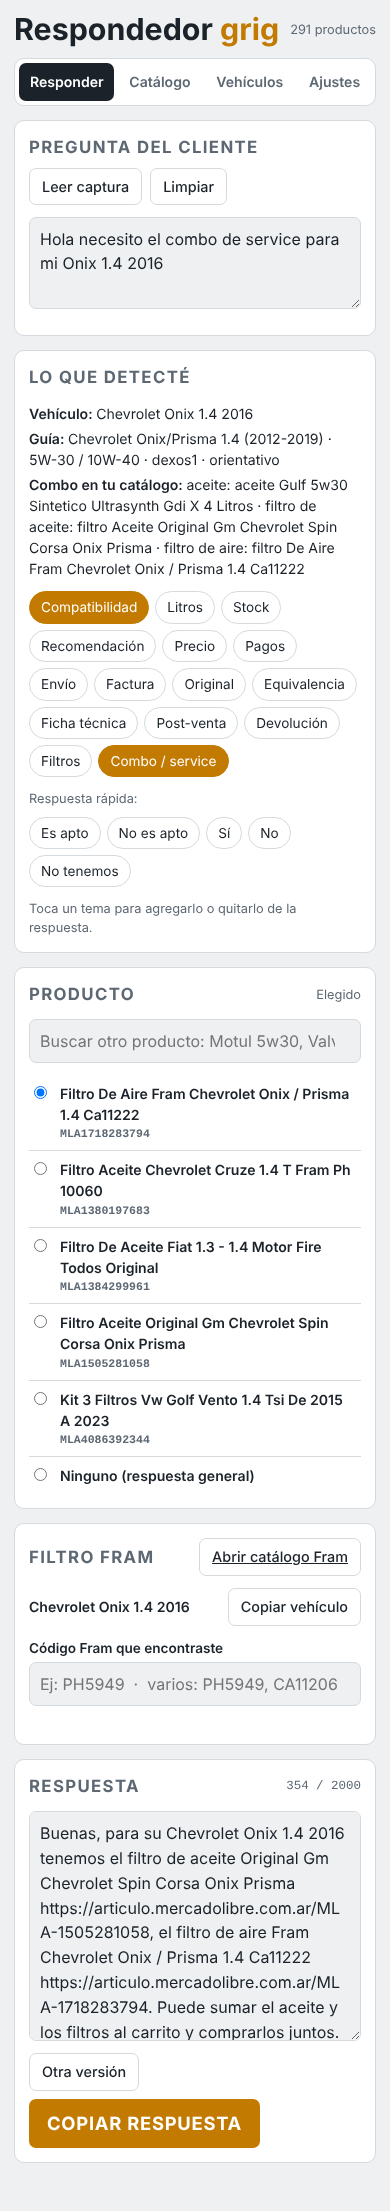
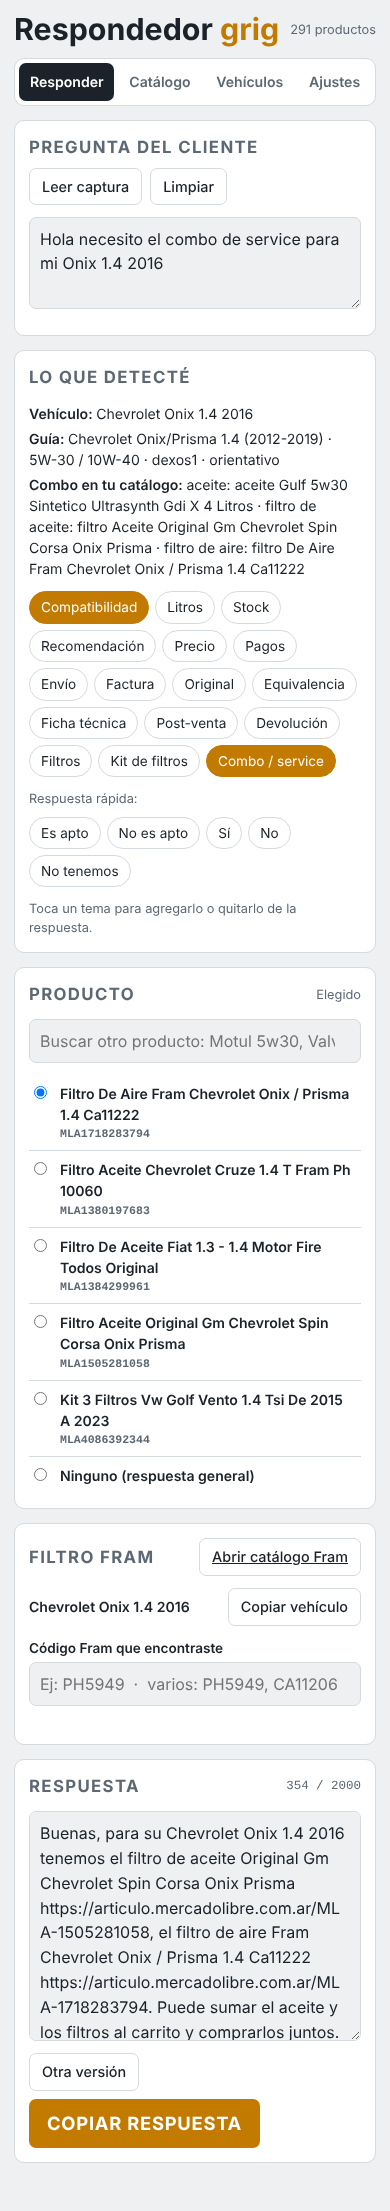
Filtros: pedir año y motor antes de ofrecer, y responder 'kit' con un kit
- Sin año o motor, la respuesta solo pregunta lo que falta (no ofrece filtros
  que pueden ser de otro motor).
- 'Kit de filtros' responde con el kit del vehículo; si no hay kit, ofrece los
  filtros por separado; si no hay nada, 'no tenemos stock'.
- Al listar filtros sueltos menciona el kit si existe y no agrega un link sin nombre.

Claude-Session: https://claude.ai/code/session_019EL6JgXRSoakvXpns3krCf

Changed region(s): [[0.2462, 0.3121, 0.5538, 0.3745], [0.5846, 0.3121, 0.8615, 0.3745]]

diff --git a/index.html b/index.html
@@ -283,7 +283,8 @@ const Engine = (() => {
     { key: "postventa", label: "Post-venta", re: /(ya compr|realice (la )?compra|hice (la|una) compra|mi (pedido|compra|paquete|envio)|preparando tu envio|seguimiento|no me (llego|entregaron)|cuando (lo )?despach|ya pague|compre hace)/ },
     { key: "devolucion", label: "Devolución", re: /(devoluc|devolver|cambio|garantia|no me sirve)/ },
     { key: "filtros", label: "Filtros", re: /filtro/ },
-    { key: "combo", label: "Combo / service", re: /(kit|combo|incluye|viene con|todo lo (que|necesario)|service|cambio de aceite y filtro)/ },
+    { key: "kit", label: "Kit de filtros", re: /(\bkit\b|juego de filtros|combo de filtros|todos los filtros|los 3 filtros|los tres filtros)/ },
+    { key: "combo", label: "Combo / service", re: /(combo|incluye|viene con|todo lo (que|necesario)|service|cambio de aceite y filtro)/ },
   ];
   function detectIntents(q) {
     const n = " " + norm(q) + " ";
@@ -638,7 +639,7 @@ const Engine = (() => {
   }
 
   function comboFor(catalog, veh, g, q) {
-    const res = { oil: null, filters: [] };
+    const res = { oil: null, filters: [], kits: [] };
     if (!veh || !veh.model) return res;
     const mt = veh.model.split(" ");
     const has = (n, t) => new RegExp("(^|[^a-z0-9])" + t.replace(/[.+]/g, "\\$&") + "([^a-z0-9]|$)").test(n);
@@ -656,6 +657,7 @@ const Engine = (() => {
     catalog.forEach((it) => {
       prep(it);
       if (!/filtro/.test(it._n) || !mt.every((t) => has(it._n, t)) || !filterFits(it, veh)) return;
+      if (/\bkit\b/.test(it._n)) { res.kits.push(it); return; }
       const c = filterCat(it._n);
       if (c) (byCat[c] = byCat[c] || []).push(it);
     });
@@ -685,7 +687,7 @@ const Engine = (() => {
     const out = [];
     let asked = false;
     const askData = () => { if (asked) return ""; asked = true; return pick("ask", ["Para confirmarte, ¿nos indicás marca, modelo, año y motor de tu vehículo?", "Así te asesoramos bien, ¿nos pasás marca, modelo, año y motor del vehículo?"]); };
-    const wantsFilters = intents.has("filtros") || intents.has("combo") || intents.has("equivalencia") || isFilter || fram.length > 0;
+    const wantsFilters = intents.has("filtros") || intents.has("kit") || intents.has("combo") || intents.has("equivalencia") || isFilter || fram.length > 0;
     const vehTalk = intents.has("compat") || intents.has("litros") || intents.has("recomendar") || intents.has("combo");
     const ambiguous = !guide && veh && veh.model && options.length > 1;
     const oilTalk = !isFilter || intents.has("litros") || /\baceite\b/.test(norm(q).replace(/filtros? (de |del |para )?aceite/g, ""));
@@ -789,6 +791,17 @@ const Engine = (() => {
         out.push(t);
       });
     } else if (wantsFilters && veh && veh.model) {
+      // Sin año o motor no se sabe qué filtro lleva: se pregunta antes de ofrecer nada
+      const missF = [!veh.year && "año", !(veh.engine || /\d+cc/.test(veh.label)) && "motor"].filter(Boolean).join(" y ");
+      if (missF) { out.length = 1; out.push("¿Me podrías indicar el " + missF + " de tu " + veh.label + "?"); return finish(); }
+      if (intents.has("kit")) {
+        out.length = 1;
+        const kit = (combo.kits || []).find((k) => !veh.engine || norm(k.t).includes(veh.engine)) || (combo.kits || [])[0];
+        if (kit) out.push("Para tu " + veh.label + " tenemos el " + prodName(kit.t) + "." + lk(kit));
+        else if (combo.filters.length) out.push("No tenemos el kit armado para tu " + veh.label + ", pero tenemos los filtros por separado: " + combo.filters.map((f) => "el de " + f.cat + " " + filterName(f.it.t) + lk(f.it)).join(", ") + ".");
+        else return noStock();
+        return finish();
+      }
       const fl = combo.filters;
       if (fl.length) out.push("Para tu " + veh.label + " tenemos " + fl.map((f) => "el filtro de " + f.cat + " " + filterName(f.it.t) + lk(f.it)).join(", ") + ".");
       else if (isFilter && !fram.length) out.push("Para tu " + veh.label + " tenemos el " + P + ".");
